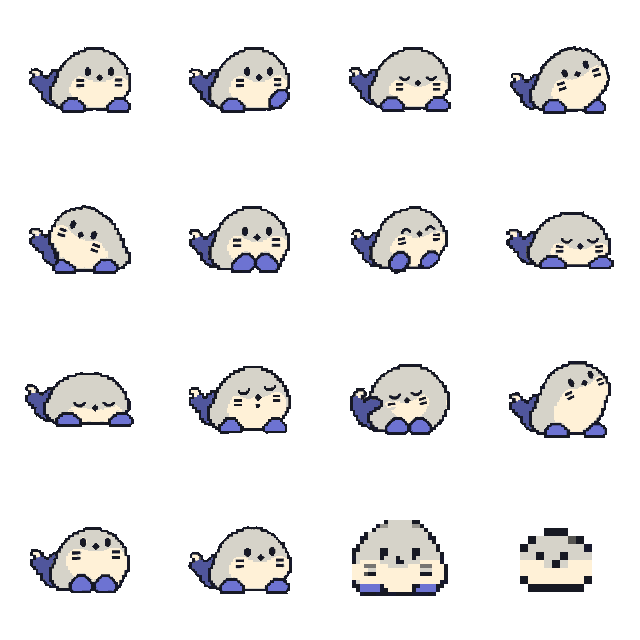
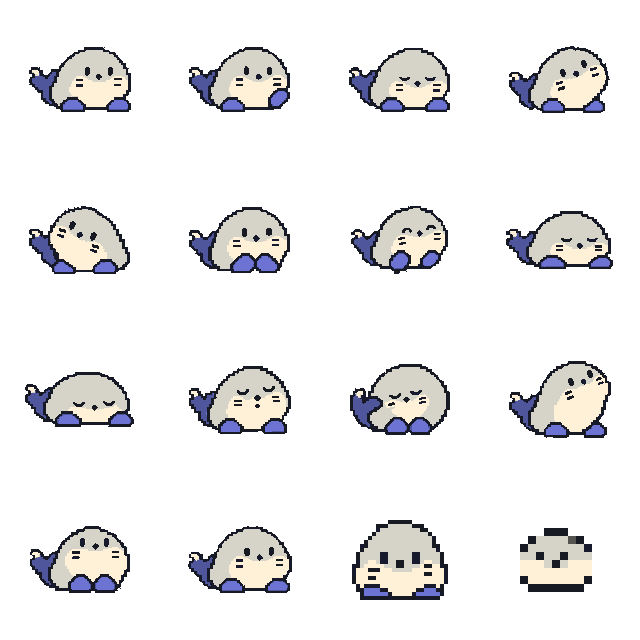
fix(brand): clean Moru's still poses the way its clips are cleaned
The 16 still poses were cut straight from the source sheet at their
exported size and skipped every cleaning pass the clips get, so each
128px pose kept 72 to 166 pixels of the gray that ink fades through
(28 in yawn): a fuzzy outline, smudged whiskers and stray pixels. The
32px face also lost its outline down the left side, which shows on a
light page. The showcase in the README is drawn from these files.

Poses of 32px or more are now cut on the 256px work grid, cleaned by
the same passes and reduced by the same halving as a clip frame. No
pass is new; the chain the clips used is named and shared. All 15 keep
no dark gray, and one keeps two pixels of the lighter haze. They keep
the stricter opacity cutoff, because at the clips' cutoff a detached
shadow under happy-hop survives as an indigo blob.

The 16px face stays as it was: its marks are one pixel each and the
reduction has no room to redraw them, so the same route makes it worse.
Its single fade pixel is left for a separate change.

The 64px connect row the app plays was still the one from before the
faint-whisker fix, because only the icon installer wrote the public
copy. The exporter now writes it with its master, and a test compares
the two.

diff --git a/docs/design/brand.md b/docs/design/brand.md
@@ -138,6 +138,13 @@ fill or larger than a mark stays. In one frame of `connect` the piece runs
 from the left whisker to the flipper outline, so that whisker gains a short
 tail.
 
+The still poses of 32px or more are cut on the same 256px grid, cleaned by the
+same passes and reduced the same way, so a pose and a clip pose are drawn
+alike; they keep the stricter opacity cutoff, because at the clips' cutoff a
+detached shadow under `happy-hop` survives. The 16px face is cut at its own
+size: its marks are one pixel each and the reduction has no room to redraw
+them, so its one fade pixel on the head remains.
+
 Each halving keeps one fixed pixel of every 2×2 block, so a run of pixels
 halves in length and a filled square stays a filled rectangle within a pixel of
 its true size wherever it sits on the grid. An upright or level ink stroke, or
